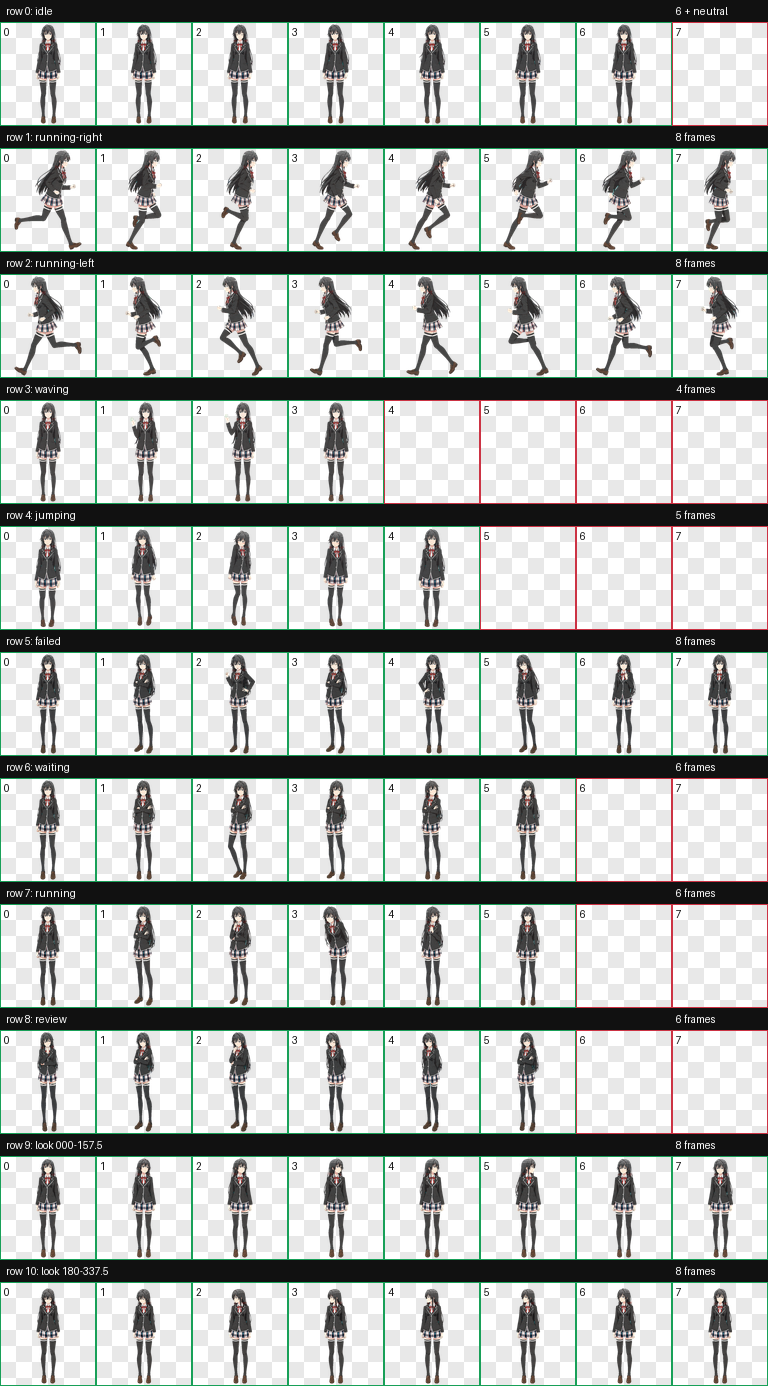
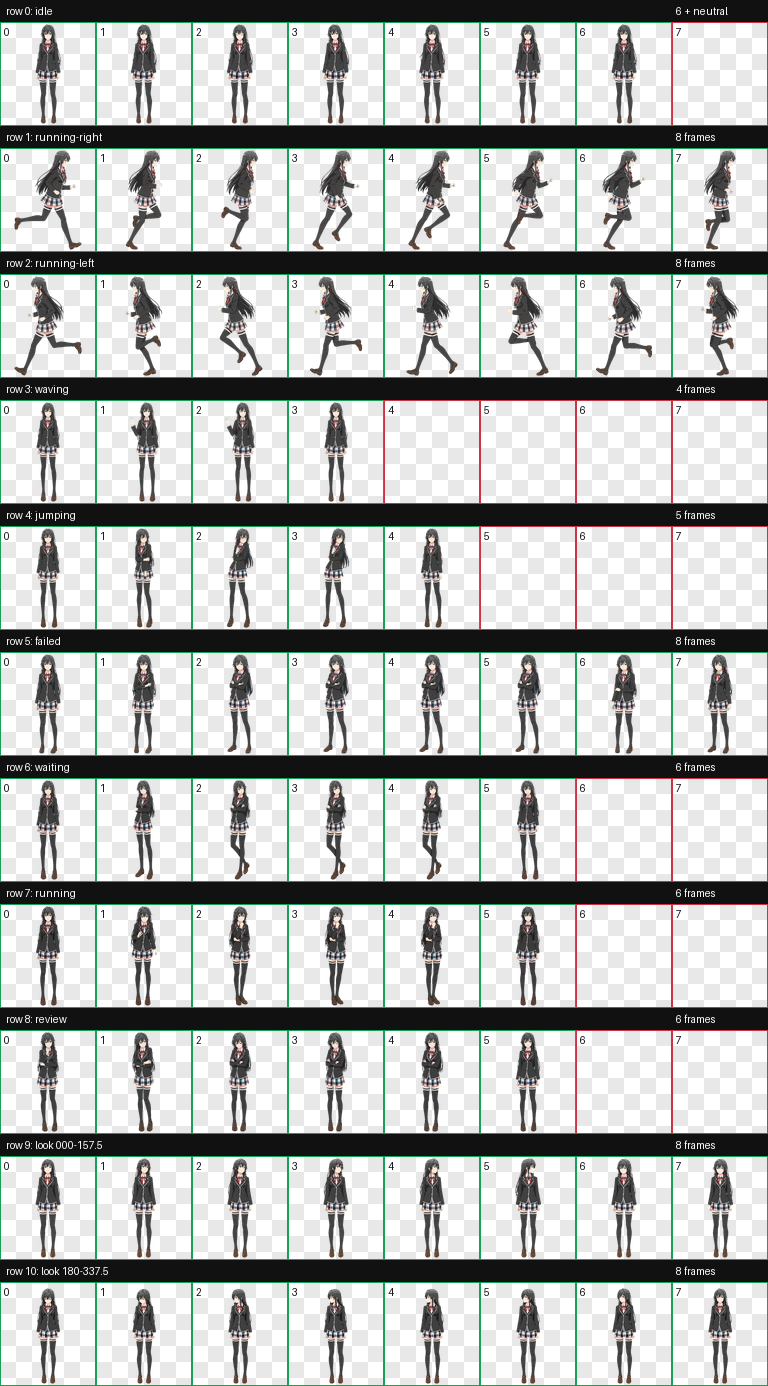
feat: improve event animation legibility

diff --git a/docs/INTERACTION_DESIGN.md b/docs/INTERACTION_DESIGN.md
@@ -22,12 +22,12 @@ clear silhouettes and large facial landmarks rather than fine micro-detail.
 | 0 | idle | Quiet breathing, blinking, and composed observation. |
 | 1 | running-right | Directional drag/travel toward screen-right. |
 | 2 | running-left | Directional drag/travel toward screen-left. |
-| 3 | waving | Restrained acknowledgement rather than enthusiastic greeting. |
-| 4 | jumping / hover | Pointer notice, grounded micro-flinch, toe-rise/recoil, cool side-eye, recovery. |
-| 5 | failed | Cool reproach, disappointment, or blocked-state reaction. |
-| 6 | waiting | Reserved expectation when user approval or input is required. |
-| 7 | running | Focused work/processing rather than literal locomotion. |
-| 8 | review | Calm inspection and restrained acknowledgement of completed work. |
+| 3 | waving | Restrained acknowledgement with the raised hand held across two frames. |
+| 4 | jumping / hover | Pointer notice, grounded recoil, two-frame guarded side-eye, recovery. |
+| 5 | failed | Arms-crossed cool reproach held long enough to read as a blocked-state reaction. |
+| 6 | waiting | Crossed-arm, hip-shifted expectation held while user approval or input is required. |
+| 7 | running | Focused hand-to-chin work/processing rather than literal locomotion. |
+| 8 | review | Calm inspection followed by a held, restrained approval beat. |
 | 9–10 | look directions | Continuous mouse gaze in sixteen clockwise directions. |
 
 ## Why the hover row has five frames
@@ -42,18 +42,18 @@ registration, not by violating the frame contract.
 ### Five-frame hover acting plan
 
 1. **Notice** — neutral baseline; eyes detect the pointer and one brow changes.
-2. **Micro-flinch** — shoulders rise slightly, body shifts back, heels begin to
-   lift, hair and ribbons lag.
-3. **Peak avoidance** — subtle rise on the toes, cool side-eye, faint
-   involuntary blush; the body never becomes airborne.
-4. **Controlled settle** — heels lower and surprise becomes restrained
-   reproach.
+2. **Grounded recoil** — shoulders draw inward, the upper body shifts back,
+   and the arms begin guarding personal space.
+3. **Guarded side-eye** — chin turns away, eyes narrow toward the intrusion,
+   one hand stays near the chest or opposite arm, and faint blush appears.
+4. **Held side-eye** — almost the same guarded pose remains on screen; only a
+   blink, wrist change, or hair settle occurs.
 5. **Composed recovery** — original baseline returns; blush nearly disappears
    and posture is dignified.
 
-The row uses stable-slot extraction to preserve one-to-two-pixel position
-changes that would otherwise be erased by per-frame recentering. Independent
-playback review confirmed no clipping or size popping.
+Both feet remain planted on the same baseline in every frame. Component-based
+extraction preserves stable scale and placement without the previous
+stable-slot exception.
 
 ![Hover animation](../previews/hover.gif)
 
@@ -90,3 +90,34 @@ status mapping is:
 - **Blocked** → failed row.
 
 The visual design should remain useful and low-distraction during long work.
+
+## Perceived speed and held key poses
+
+Codex owns the animation row timings and used-cell counts. `pet.json` has no
+supported per-action speed field. Slower, clearer acting is therefore achieved
+inside the fixed contract by holding the strongest pose in adjacent frames:
+
+| State | Held frames (zero-based) | Readable beat |
+| --- | --- | --- |
+| waving | 1–2 | shoulder-height acknowledgement |
+| jumping / hover | 2–3 | grounded guarded side-eye |
+| failed | 2–5 | arms-crossed reproach |
+| waiting | 2–4 | impatient needs-input pose |
+| running | 2–4 | focused hand-to-chin work |
+| review | 2–4 | small nod and restrained approval |
+
+The held frames are not required to be pixel copies. A blink, tiny wrist
+change, hair settle, or slight chin recovery keeps the animation alive while
+preserving the same readable silhouette.
+
+## Native-size clarity strategy
+
+The runtime cell remains fixed at `192x208`, so facial readability cannot be
+improved by shipping a larger incompatible atlas. The current art instead:
+
+- fills the safe cell height while preserving normal 6.5–7-head proportions;
+- uses darker, cleaner eye, eyelid, eyebrow, and mouth landmarks;
+- keeps red ribbons, the red bow, and white blazer piping high contrast;
+- separates hands and bent elbows from the dark hair and blazer silhouette;
+- simplifies hair strands, plaid micro-lines, fabric noise, and low-contrast
+  shading that would blur after downsampling.

diff --git a/README.md b/README.md
@@ -2,7 +2,7 @@
 
 [English](README.en.md) · [安装指南](docs/INSTALLATION.md) · [交互设计](docs/INTERACTION_DESIGN.md) · [动画协议](docs/SPRITE_CONTRACT.md) · [维护手册](docs/MAINTENANCE.md)
 
-一个非官方、非商业的雪之下雪乃风格 Codex v2 动态宠物项目。它采用正常动漫人体比例与 galgame 式克制表演：鼠标靠近时会轻微避让、侧目并恢复端庄，而不是兴奋地腾空跳跃。
+一个非官方、非商业的雪之下雪乃风格 Codex v2 动态宠物项目。它采用正常动漫人体比例与 galgame 式克制表演：鼠标靠近时会双脚着地地避让、侧目并恢复端庄，而不是兴奋跳跃；事件动作通过相邻帧保持关键姿势，让责备、等待、专注与认可不会一闪而过。
 
 > [!IMPORTANT]
 > 这是同人衍生项目，与 OpenAI、渡航、小学馆、动画制作委员会及相关权利方均无官方关联。角色与原作相关权利归各自权利方所有。仓库中的代码和文档可按 MIT 条款使用；角色衍生精灵图不在 MIT 授权范围内，详见 [ASSET_NOTICE.md](ASSET_NOTICE.md) 与 [LICENSE](LICENSE)。
@@ -131,18 +131,29 @@ Codex CLI：
 - 正常 6.5–7 头身动漫比例，不使用 Q 版或卡通小人造型。
 - 九类标准状态：待机、左右移动、招手、悬停反应、失败、等待、工作、审阅。
 - 16 个顺时针鼠标视线方向，眼睛与头颈主导，躯干保持 galgame 式稳定。
-- 悬停行为采用五帧克制避让：察觉、微退抬跟、冷淡侧目、平稳恢复。
+- 悬停行为采用五帧克制避让：察觉、微退、连续两帧保持戒备侧目、平稳恢复；全程双脚着地。
+- 应用端播放时序遵循固定 Codex v2 协议；本项目通过相邻帧重复关键姿势改善体感速度，而不是写入无效的自定义速度参数。
+- 事件动作采用可读停顿：招呼 2 帧、悬停 2 帧、失败责备 4 帧、等待/工作/审阅各 3 帧保持核心姿势。
+- 原生 `192x208` 清晰度通过高对比眼眉、发饰、制服滚边、手部和鞋子轮廓，以及简化碎小纹理来保证。
 - WebP 使用无损 RGBA；最终产物与 PNG 像素一致。
 - 色键清理、图集结构、盲方向测试和独立视觉 QA 均已通过。
 
 ![悬停动画](previews/hover.gif)
+
+| 招呼 | 失败责备 | 等待输入 |
+| --- | --- | --- |
+| ![克制招呼](previews/waving.gif) | ![失败责备](previews/failed.gif) | ![等待输入](previews/waiting.gif) |
+
+| 专注工作 | 审阅认可 |
+| --- | --- |
+| ![专注工作](previews/working.gif) | ![审阅认可](previews/review.gif) |
 
 ## 仓库结构
 
 ```text
 yukino-coding-company/
 ├── pet/                  # 可直接安装的最终宠物包
-├── previews/             # 接触表、视线表与悬停 GIF
+├── previews/             # 接触表、视线表与各事件动作 GIF
 ├── qa/                   # 机器验证与视觉 QA 证据
 ├── scripts/              # 独立发布验证器
 ├── docs/                 # 设计、协议、安装和维护文档

diff --git a/docs/QUALITY_ASSURANCE.md b/docs/QUALITY_ASSURANCE.md
@@ -37,8 +37,9 @@ local pet-generation skill installation.
 | `qa/direction-blind-validation.json` | Three-reviewer blind axis consensus and hard cardinal gates. |
 | `qa/direction-semantics.json` | Labeled verdict for every look direction. |
 | `qa/look-continuity.json` | Adjacent direction metrics and reviewed warnings. |
-| `qa/hover-final-visual-qa.json` | Independent approval of the repaired hover animation and clarity. |
-| `qa/stable-slots-resolution.json` | Explanation and approval of stable-slot extraction. |
+| `qa/legibility-final-visual-qa.json` | Independent native-size approval of all six repaired event-action rows. |
+| `qa/row-diff.json` | Pixel regression proof that only rows 3–8 changed. |
+| `qa/run-summary.json` | Release summary and repair scope. |
 
 ## Current accepted warnings
 
@@ -63,14 +64,16 @@ failure only when normal-size playback shows a conspicuous defect.
 - consistent black blazer, white piping, red bow, plaid skirt, socks, shoes;
 - no chibi or mascot-doll drift.
 
-### Hover row
+### Event-action rows
 
-- five frames, not eight;
-- no airborne feet;
-- no celebratory smile or exaggerated excitement;
-- subtle notice, recoil, side-eye/blush, and recovery;
-- stable-slot motion is smooth and unclipped;
-- facial and uniform details remain readable at `192x208`.
+- waving holds the raised hand in frames 1–2;
+- hover holds the guarded side-eye in frames 2–3 and never lifts either foot;
+- failed holds arms-crossed reproach in frames 2–5;
+- waiting holds the needs-input pose in frames 2–4;
+- running holds the focused hand-to-chin pose in frames 2–4;
+- review holds the restrained approval beat in frames 2–4;
+- facial, uniform, hand, and shoe landmarks remain readable at `192x208`;
+- motion remains smooth, grounded, unclipped, and persona-faithful.
 
 ### Directions
 
@@ -85,5 +88,5 @@ failure only when normal-size playback shows a conspicuous defect.
 
 For a targeted row repair, compare the old and new atlases row by row. Rows
 outside the requested change should be pixel-identical whenever possible.
-The hover repair release changed only row 4; rows 0–3 and 5–10 remained
-unchanged.
+The legibility repair release changed only rows 3–8. Rows 0–2 and 9–10 are
+pixel-identical to the previously approved atlas.

diff --git a/README.en.md b/README.en.md
@@ -2,7 +2,7 @@
 
 [中文说明](README.md) · [Installation](docs/INSTALLATION.md) · [Interaction design](docs/INTERACTION_DESIGN.md)
 
-An unofficial, non-commercial Yukinoshita Yukino-inspired animated pet for Codex. It uses the Codex v2 8×11 sprite contract, normal anime proportions, restrained galgame-style acting, and a grounded pointer-hover response instead of an exuberant jump.
+An unofficial, non-commercial Yukinoshita Yukino-inspired animated pet for Codex. It uses the Codex v2 8×11 sprite contract, normal anime proportions, restrained galgame-style acting, and grounded pointer-hover behavior. Event actions hold their key pose across adjacent frames so reproach, waiting, focused work, and approval remain readable instead of flashing by.
 
 ## Install with a coding agent
 
@@ -33,6 +33,16 @@ See [docs/INSTALLATION.md](docs/INSTALLATION.md) for Windows, updates, uninstall
 ## Preview
 
 ![Contact sheet](previews/contact-sheet.png)
+
+Codex controls the fixed row timing. Perceived speed is improved by holding the same key pose across adjacent frames, not by adding unsupported timing fields. The artwork also emphasizes high-contrast eyes, brows, ribbons, white piping, hands, and shoes at the native `192x208` size.
+
+| Greeting | Grounded hover | Failed / reproach |
+| --- | --- | --- |
+| ![Greeting](previews/waving.gif) | ![Grounded hover](previews/hover.gif) | ![Reproach](previews/failed.gif) |
+
+| Waiting | Working | Review / approval |
+| --- | --- | --- |
+| ![Waiting](previews/waiting.gif) | ![Working](previews/working.gif) | ![Review](previews/review.gif) |
 
 ## License boundary
 

diff --git a/CHANGELOG.md b/CHANGELOG.md
@@ -12,6 +12,26 @@ Versioning for repository releases; the installed pet id remains
   pip caching at `requirements-dev.txt`, fixing the failed setup step and the
   Node 20 deprecation warning.
 
+## [1.2.0] - 2026-07-19
+
+### Changed
+
+- Rebuilt all six event-action rows with adjacent-frame key-pose holds so the
+  actions read more slowly without changing Codex's fixed frame contract.
+- Strengthened native-size silhouettes and high-contrast eyes, brows, ribbons,
+  blazer piping, hands, socks, and shoes while simplifying blur-prone
+  micro-detail.
+- Kept the hover reaction fully grounded and replaced the former toe-rise with
+  a guarded upper-body recoil and held displeased side-eye.
+- Added individual previews for greeting, hover, failure, waiting, working,
+  and review states.
+
+### Verified
+
+- Independent visual QA passes at the native `192x208` cell size.
+- Rows 3–8 changed; rows 0–2 and 9–10 are pixel-identical to version 1.1.0.
+- Codex v2 atlas validation and existing hard cardinal direction gates pass.
+
 ## [1.1.0] - 2026-07-19
 
 ### Changed

diff --git a/docs/MAINTENANCE.md b/docs/MAINTENANCE.md
@@ -34,6 +34,8 @@
 10. Compare every row against the previous release and confirm only intended
     rows changed.
 11. Run independent visual QA.
+12. When perceived speed is the issue, record which adjacent frames hold the
+    key pose; do not add unsupported manifest timing fields.
 
 ## Updating look directions
 
@@ -74,6 +76,8 @@ Update `VERSION`, `CHANGELOG.md`, `CITATION.cff`, and the Git tag together.
 [ ] contact sheet matches the release atlas
 [ ] previews show the current behavior
 [ ] QA JSON files match the release
+[ ] row-diff evidence confirms only intended rows changed
+[ ] held key poses are readable at native 192x208 size
 [ ] README installation commands are current
 [ ] asset notice and license boundary remain visible
 [ ] CHANGELOG and VERSION are updated

diff --git a/CONTRIBUTING.md b/CONTRIBUTING.md
@@ -36,9 +36,11 @@ python scripts/validate_pet.py
 ## Interaction changes
 
 The character should remain composed, intelligent, cool, and restrained.
-Prefer eye, eyebrow, eyelid, head, hair, shoulder, and small posture changes
-over exaggerated body motion. The fixed five-frame hover row must not become
-an airborne celebratory jump.
+Prefer readable head, shoulder, arm, hand, hip, and posture silhouettes over
+facial micro-detail alone. When an action feels too fast, hold its key pose in
+adjacent existing cells; do not change the fixed used-cell counts or invent a
+manifest speed field. The five-frame hover row must keep both feet grounded
+and must not become an airborne celebratory jump.
 
 ## Commit style
 

diff --git a/docs/PROJECT_OVERVIEW.md b/docs/PROJECT_OVERVIEW.md
@@ -79,7 +79,9 @@ The current release has:
 - required standard-row frame counts;
 - passing hard cardinal direction blind tests;
 - reviewed intermediate direction warnings;
-- independent approval of the grounded hover repair;
+- independent approval of all six repaired event-action rows at native size;
+- adjacent-frame key-pose holds that improve perceived speed without changing the runtime contract;
+- pixel regression evidence showing that only rows 3–8 changed;
 - pixel-identical PNG and lossless WebP outputs during production QA.
 
 See [QUALITY_ASSURANCE.md](QUALITY_ASSURANCE.md) for evidence and acceptance

diff --git a/docs/README.md b/docs/README.md
@@ -5,7 +5,8 @@
 - [PROJECT_OVERVIEW.md](PROJECT_OVERVIEW.md) — project goals, repository
   boundaries, package structure, and runtime flow.
 - [INTERACTION_DESIGN.md](INTERACTION_DESIGN.md) — character interpretation,
-  event-to-animation mapping, hover behavior, and mouse gaze design.
+  event-to-animation mapping, held key poses, native-size clarity, hover
+  behavior, and mouse gaze design.
 - [SPRITE_CONTRACT.md](SPRITE_CONTRACT.md) — exact Codex v2 atlas geometry,
   rows, frame counts, transparency, and manifest fields.
 - [QUALITY_ASSURANCE.md](QUALITY_ASSURANCE.md) — automated and visual quality

diff --git a/docs/SPRITE_CONTRACT.md b/docs/SPRITE_CONTRACT.md
@@ -47,6 +47,11 @@ row 0, column 7 remains unused. Every other unused cell after a standard row's
 final used column must have zero visible alpha. Row 4 cannot be expanded to
 eight visible cells without changing the application contract.
 
+These timings are runtime/preview contract values, not package-level options.
+`pet.json` does not provide a supported action-speed field. To slow the
+perceived action while staying compatible, consecutive used cells may hold the
+same key pose with small secondary changes such as a blink or hair settle.
+
 ## Look rows
 
 Row 9:
